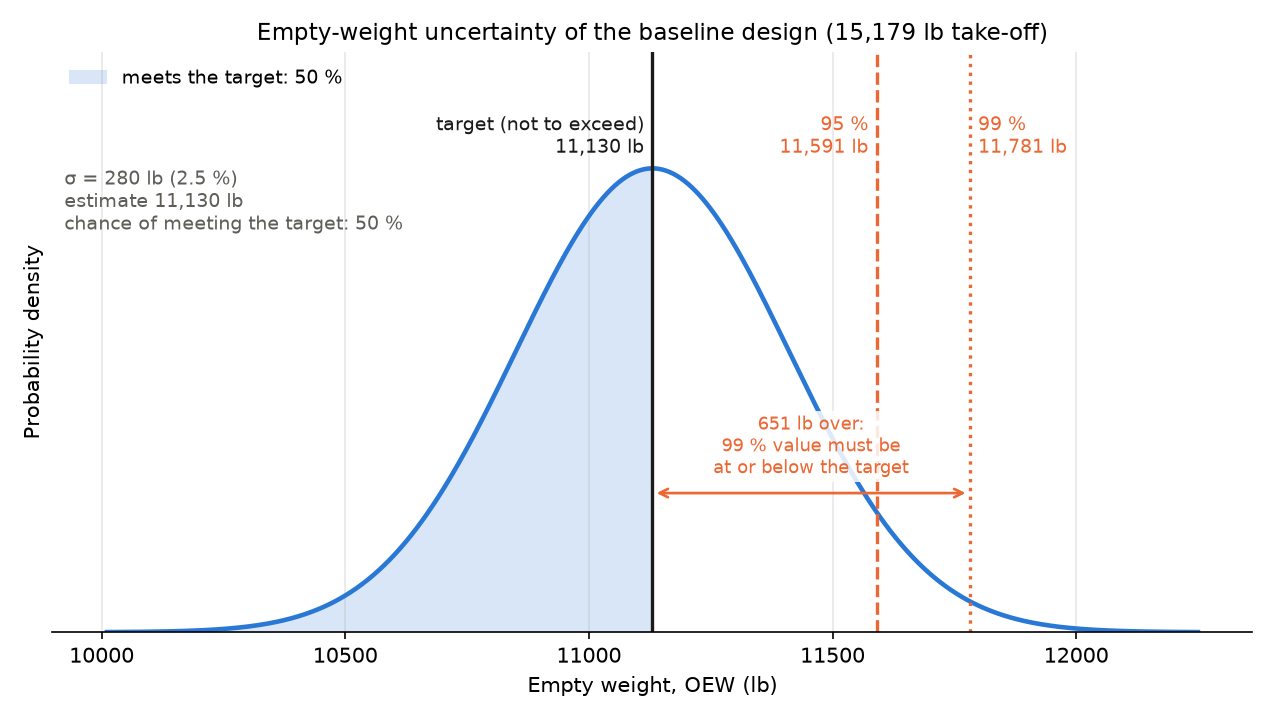
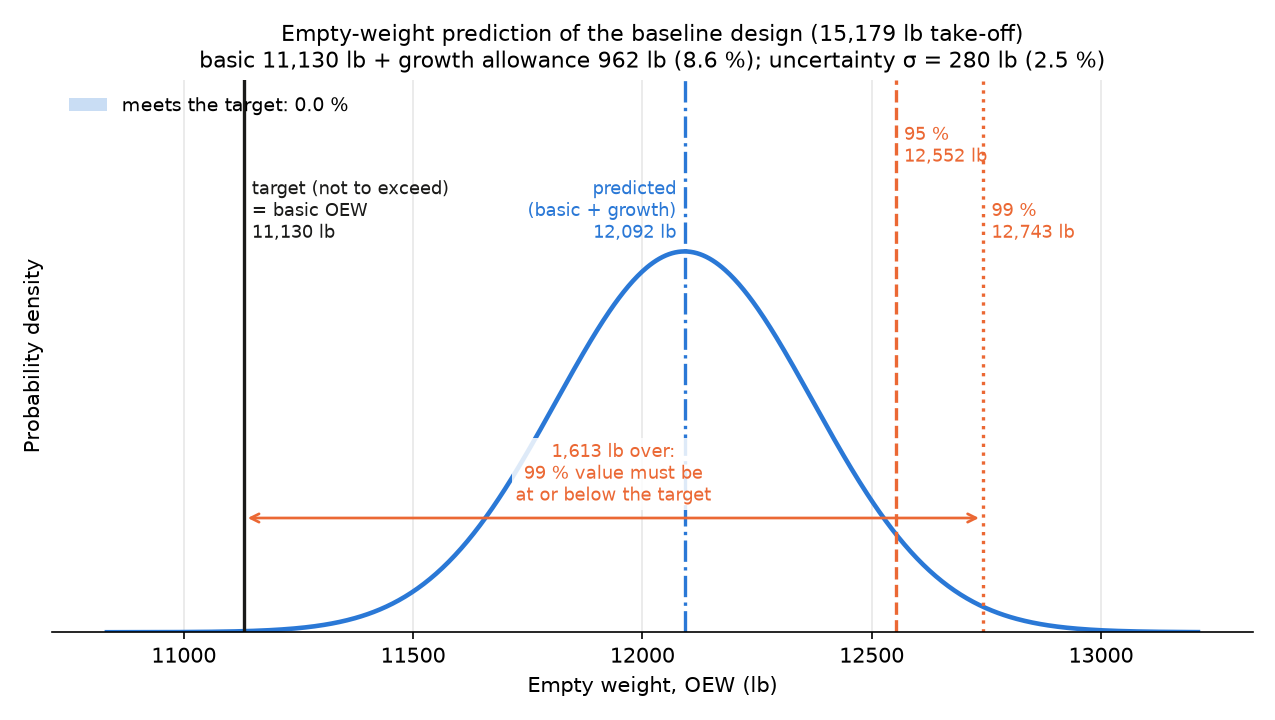
feat: OEW prediction separates growth allowance from uncertainty
Each empty-weight item now carries two quantities:
- a maturity-based growth allowance (vendor hardware 2 % through estimated 15 %, structured after AIAA S-120A /
  SAWE practice), which shifts the predicted OEW;
- a 1-sigma uncertainty from its estimating method, which sets the spread.

With the target at today's basic OEW (11,130 lb), the prediction is 12,092 lb (+962 lb growth, 8.6 %),
sigma 280 lb, and the 99 % value is 1,613 lb over the target. The README table shows the basic weight, maturity,
growth allowance, uncertainty and predicted weight per item.

Claude-Session: https://claude.ai/code/session_01EbPY63ZKEJVQUT6jGN3Y5d

diff --git a/examples/halo_oew_uncertainty.py b/examples/halo_oew_uncertainty.py
@@ -1,19 +1,22 @@
-"""Empty-weight (OEW) uncertainty of the sized Halo baseline: item-by-item mass build-up and its distribution.
+"""Empty-weight (OEW) prediction of the sized Halo baseline: growth allowance and uncertainty, item by item.
 
-Each item of the empty-weight build-up gets a one-sigma uncertainty that reflects how its mass is estimated:
+Each item of the empty-weight build-up carries two separate quantities:
 
-- catalogue hardware (fixed turboshafts, whole machine units) is tight;
-- calibrated handbook groups (AFDD, Raymer with XV-15 factors) carry +/-15 % at 95 % confidence, the spread the
-  design-space sensitivity study uses (sigma 7.5 %), widened where the calibration is weakest;
-- lightly modelled items (heat exchanger, protection and bus tie) are wide.
+- **Growth allowance** (`maturity_levels`): the growth expected as the design matures, set by how mature the item's
+  weight is, following the structure of AIAA S-120A / SAWE mass-growth practice (the percentages are program
+  defaults, to be set by the weights team). It shifts the prediction: predicted OEW = basic OEW + sum of the
+  allowances.
+- **Uncertainty**: a one-sigma spread that reflects how the item's mass is estimated. Catalogue hardware is tight;
+  calibrated handbook groups (AFDD, Raymer with XV-15 factors) carry about +/-15 % at 95 % confidence, widened where
+  the calibration is weakest; lightly modelled items are wide.
 
-Items are taken as independent and normally distributed, so OEW is normal with mean = the sized OEW and
-sigma = sqrt(sum sigma_i^2). Correlated errors (for example every Raymer group biased the same way) would widen it.
-This is a bottom-up spread at fixed take-off weight: the aircraft is not re-sized, so the growth a heavier empty
-weight causes through fuel, battery and structure is not included.
+Items are independent and normally distributed, so OEW is normal with mean = the predicted OEW and
+sigma = sqrt(sum sigma_i^2). Correlated errors (every Raymer group biased the same way) would widen it. Weight is
+held at a fixed take-off weight: the aircraft is not re-sized, so the growth a heavier empty weight causes through
+fuel, battery and structure is not included.
 
-The OEW target is the sized baseline OEW; the 95 % and 99 % values are one-sided: the OEW not exceeded with that
-probability.
+The target is a not-to-exceed OEW, by default the basic OEW of the sized baseline. The 95 % and 99 % values are
+one-sided: the OEW not exceeded with that probability.
 
     python -m examples.halo_oew_uncertainty    # sizes the baseline; writes output/oew/oew_distribution.png
 """
@@ -27,37 +30,61 @@ import aerosandbox.tools.units as u
 blue, orange, grey, ink = "#2a78d6", "#eb6834", "#5e5d58", "#1a1a19"
 z_95, z_99 = 1.6449, 2.3263              # one-sided standard-normal quantiles
 
+# Design maturity -> growth allowance (fraction of the basic weight).
+maturity_levels = {
+    "Vendor hardware": 0.02,             # catalogue item, quoted weight
+    "Vendor data": 0.05,                 # catalogue units plus an integration estimate
+    "Calculated / layout": 0.08,         # from component data or a drawn layout
+    "Calibrated parametric": 0.10,       # handbook method calibrated on a reference aircraft
+    "Estimated": 0.15,                   # uncalibrated method or an assumed allowance
+}
+
 
 @dataclass(frozen=True)
 class OewItem:
     label: str
     group: str                           # "Powertrain" or "Airframe and systems"
-    mass_kg: float
-    sigma_fraction: float                # one-sigma uncertainty as a fraction of the item mass
+    mass_kg: float                       # basic weight from the sizing
+    maturity: str                        # key of `maturity_levels`
+    sigma_fraction: float                # one-sigma uncertainty as a fraction of the basic weight
     basis: str
 
+    @property
+    def growth_fraction(self):
+        return maturity_levels[self.maturity]
 
-# (label, group, keys in the sizing result, sigma, basis). Keys starting "pt:" are powertrain instances.
+
+# (label, group, keys in the sizing result, maturity, sigma, basis). Keys starting "pt:" are powertrain instances.
 item_definitions = (
-    ("Wing", "Airframe and systems", ("wing",), 0.10,
+    ("Wing", "Airframe and systems", ("wing",), "Calibrated parametric", 0.10,
      "AFDD tiltrotor wing x 1.33 (XV-15); strength at ultimate not demonstrated"),
-    ("Tails", "Airframe and systems", ("horizontal_tail", "vertical_tail"), 0.10, "Raymer x XV-15 factor"),
-    ("Fuselage", "Airframe and systems", ("fuselage",), 0.10, "Raymer x 1.70, anchored to the drawn layout"),
-    ("Nacelles", "Airframe and systems", ("nacelles",), 0.10, "AFDD-class estimate"),
-    ("Landing gear", "Airframe and systems", ("landing_gear",), 0.075, "Raymer"),
-    ("Systems", "Airframe and systems", ("systems",), 0.15, "Raymer; flight controls carry an XV-15 factor of about 4"),
-    ("Fixed equipment", "Airframe and systems", ("equipment",), 0.10, "Assumed allowance"),
-    ("Rotors", "Powertrain", ("pt:propulsor",), 0.075, "AFDD blades and hubs, XV-15 calibrated"),
-    ("Rotor gearboxes", "Powertrain", ("pt:gearbox",), 0.10, "AFDD drive system"),
-    ("Generator gearboxes", "Powertrain", ("pt:generator_gearbox",), 0.10, "AFDD drive system"),
-    ("Motors (with inverters)", "Powertrain", ("pt:motor",), 0.05, "Whole catalogue units plus inverter allowance"),
-    ("Generators (with inverters)", "Powertrain", ("pt:generator",), 0.05,
+    ("Tails", "Airframe and systems", ("horizontal_tail", "vertical_tail"), "Calibrated parametric", 0.10,
+     "Raymer x XV-15 factor"),
+    ("Fuselage", "Airframe and systems", ("fuselage",), "Calculated / layout", 0.10,
+     "Raymer x 1.70, anchored to the drawn layout"),
+    ("Nacelles", "Airframe and systems", ("nacelles",), "Calibrated parametric", 0.10, "AFDD-class estimate"),
+    ("Landing gear", "Airframe and systems", ("landing_gear",), "Calibrated parametric", 0.075,
+     "Raymer x XV-15 factor"),
+    ("Systems", "Airframe and systems", ("systems",), "Calibrated parametric", 0.15,
+     "Raymer; flight controls carry an XV-15 factor of about 4"),
+    ("Fixed equipment", "Airframe and systems", ("equipment",), "Estimated", 0.10, "Assumed allowance"),
+    ("Rotors", "Powertrain", ("pt:propulsor",), "Calibrated parametric", 0.075,
+     "AFDD blades and hubs, XV-15 calibrated"),
+    ("Rotor gearboxes", "Powertrain", ("pt:gearbox",), "Calibrated parametric", 0.10, "AFDD drive system"),
+    ("Generator gearboxes", "Powertrain", ("pt:generator_gearbox",), "Calibrated parametric", 0.10,
+     "AFDD drive system"),
+    ("Motors (with inverters)", "Powertrain", ("pt:motor",), "Vendor data", 0.05,
      "Whole catalogue units plus inverter allowance"),
-    ("Turboshafts", "Powertrain", ("pt:turboshaft",), 0.025, "Fixed off-the-shelf engines plus installation"),
-    ("Battery", "Powertrain", ("pt:battery",), 0.075, "50G cell data; 70 % cell-to-pack mass assumed"),
-    ("Heat exchanger", "Powertrain", ("pt:heat_exchanger",), 0.15, "Thermal model, mass per watt assumed"),
+    ("Generators (with inverters)", "Powertrain", ("pt:generator",), "Vendor data", 0.05,
+     "Whole catalogue units plus inverter allowance"),
+    ("Turboshafts", "Powertrain", ("pt:turboshaft",), "Vendor hardware", 0.025,
+     "Fixed off-the-shelf engines plus installation"),
+    ("Battery", "Powertrain", ("pt:battery",), "Calculated / layout", 0.075,
+     "50G cell data; 70 % cell-to-pack mass assumed"),
+    ("Heat exchanger", "Powertrain", ("pt:heat_exchanger",), "Estimated", 0.15,
+     "Thermal model, mass per watt assumed"),
     ("Protection and bus tie", "Powertrain", ("pt:protection_string", "pt:protection_bus_tie", "pt:cable_bus_tie"),
-     0.20, "Simple ratings-based estimate"),
+     "Estimated", 0.20, "Simple ratings-based estimate"),
 )
 
 
@@ -65,9 +92,9 @@ def oew_items(sizing):
     components = dict(sizing.component_masses_kg)
     powertrain = dict(sizing.powertrain_masses_kg)
     items = []
-    for label, group, keys, sigma, basis in item_definitions:
+    for label, group, keys, maturity, sigma, basis in item_definitions:
         mass_kg = sum(powertrain.get(k[3:], 0.0) if k.startswith("pt:") else components.get(k, 0.0) for k in keys)
-        items.append(OewItem(label, group, float(mass_kg), sigma, basis))
+        items.append(OewItem(label, group, float(mass_kg), maturity, sigma, basis))
     total_kg = sum(item.mass_kg for item in items)
     if abs(total_kg - sizing.mass_empty_kg) > 1.0:
         raise ValueError(f"items sum to {total_kg:.1f} kg, OEW is {sizing.mass_empty_kg:.1f} kg")
@@ -76,8 +103,14 @@ def oew_items(sizing):
 
 @dataclass(frozen=True)
 class OewDistribution:
-    mean_lb: float
-    sigma_lb: float
+    basic_lb: float                      # sum of the basic item weights (the sized OEW)
+    growth_lb: float                     # sum of the growth allowances
+    sigma_lb: float                      # root sum of squares of the item uncertainties
+
+    @property
+    def mean_lb(self):
+        """Predicted OEW: basic weight plus growth allowance."""
+        return self.basic_lb + self.growth_lb
 
     @property
     def value_95_lb(self):
@@ -89,21 +122,28 @@ class OewDistribution:
 
 
 def oew_distribution(items):
-    mean_lb = sum(item.mass_kg for item in items) / u.lbm
+    basic_lb = sum(item.mass_kg for item in items) / u.lbm
+    growth_lb = sum(item.growth_fraction * item.mass_kg for item in items) / u.lbm
     sigma_lb = float(numpy.sqrt(sum((item.sigma_fraction * item.mass_kg / u.lbm) ** 2 for item in items)))
-    return OewDistribution(mean_lb, sigma_lb)
+    return OewDistribution(basic_lb, growth_lb, sigma_lb)
 
 
 def markdown_table(items, distribution):
-    """Item build-up with each item's uncertainty and growth allowance (one sigma), and the OEW total."""
-    rows = ["| Item | Weight (lb) | Uncertainty and growth allowance, 1σ (%) | Uncertainty and growth allowance, 1σ (lb) "
-            "| Basis |", "|---|---|---|---|---|"]
+    """Item build-up: basic weight, maturity and growth allowance, uncertainty (one sigma), predicted weight."""
+    d = distribution
+    rows = ["| Item | Basic weight (lb) | Maturity | Growth allowance (%) | Growth allowance (lb) "
+            "| Uncertainty, 1σ (%) | Uncertainty, 1σ (lb) | Predicted weight (lb) | Basis |",
+            "|---|---|---|---|---|---|---|---|---|"]
     for group in ("Powertrain", "Airframe and systems"):
         for item in sorted((i for i in items if i.group == group), key=lambda i: -i.mass_kg):
-            rows.append(f"| {item.label} | {item.mass_kg / u.lbm:,.0f} | {100 * item.sigma_fraction:.1f} | "
-                        f"{item.sigma_fraction * item.mass_kg / u.lbm:,.0f} | {item.basis} |")
-    rows.append(f"| **OEW** | **{distribution.mean_lb:,.0f}** | **{100 * distribution.sigma_lb / distribution.mean_lb:.1f}**"
-                f" | **{distribution.sigma_lb:,.0f}** | Root sum of squares, items independent |")
+            basic_lb = item.mass_kg / u.lbm
+            rows.append(f"| {item.label} | {basic_lb:,.0f} | {item.maturity} | {100 * item.growth_fraction:.0f} | "
+                        f"{item.growth_fraction * basic_lb:,.0f} | {100 * item.sigma_fraction:.1f} | "
+                        f"{item.sigma_fraction * basic_lb:,.0f} | {(1 + item.growth_fraction) * basic_lb:,.0f} | "
+                        f"{item.basis} |")
+    rows.append(f"| **OEW** | **{d.basic_lb:,.0f}** | | **{100 * d.growth_lb / d.basic_lb:.1f}** | **{d.growth_lb:,.0f}** "
+                f"| **{100 * d.sigma_lb / d.basic_lb:.1f}** | **{d.sigma_lb:,.0f}** | **{d.mean_lb:,.0f}** "
+                f"| Growth summed; uncertainty root sum of squares, items independent |")
     return "\n".join(rows)
 
 
@@ -114,18 +154,20 @@ def probability_at_most(distribution, weight_lb):
 
 
 def plot_distribution(distribution, path, title, target_lb=None):
-    """OEW density with the target and the 95 % and 99 % values; shades the chance of meeting the target."""
+    """Predicted OEW density with the target and the 95 % and 99 % values; shades the chance of meeting the target."""
     import matplotlib
     matplotlib.use("Agg")
     import matplotlib.pyplot as plt
     d = distribution
-    target_lb = d.mean_lb if target_lb is None else target_lb
-    weight_lb = numpy.linspace(d.mean_lb - 4 * d.sigma_lb, d.mean_lb + 4 * d.sigma_lb, 600)
+    target_lb = d.basic_lb if target_lb is None else target_lb
+    low_lb, high_lb = min(target_lb, d.mean_lb - 4 * d.sigma_lb), d.mean_lb + 4 * d.sigma_lb
+    weight_lb = numpy.linspace(low_lb - 0.5 * d.sigma_lb, high_lb, 700)
     pdf = numpy.exp(-0.5 * ((weight_lb - d.mean_lb) / d.sigma_lb) ** 2) / (d.sigma_lb * numpy.sqrt(2 * numpy.pi))
+    chance = probability_at_most(d, target_lb)
     fig, ax = plt.subplots(figsize=(8.5, 4.8))
     ax.plot(weight_lb, pdf, color=blue, lw=2.2)
-    ax.fill_between(weight_lb, pdf, where=weight_lb <= target_lb, color=blue, alpha=0.18, lw=0,
-                    label=f"meets the target: {100 * probability_at_most(d, target_lb):.0f} %")
+    ax.fill_between(weight_lb, pdf, where=weight_lb <= target_lb, color=blue, alpha=0.25, lw=0,
+                    label=f"meets the target: {100 * chance:.1f} %")
     peak = pdf.max()
     # The design rule: the 99 % value must sit at or below the not-to-exceed target.
     if d.value_99_lb > target_lb:
@@ -135,31 +177,31 @@ def plot_distribution(distribution, path, title, target_lb=None):
                 f"{d.value_99_lb - target_lb:,.0f} lb over:\n99 % value must be\nat or below the target",
                 ha="center", va="bottom", fontsize=8.5, color=orange,
                 bbox=dict(facecolor="white", edgecolor="none", alpha=0.85, pad=1.5))
-    for value, label, color, style, side in ((target_lb, "target (not to exceed)", ink, "-", -1),
-                                             (d.value_95_lb, "95 %", orange, "--", -1),
-                                             (d.value_99_lb, "99 %", orange, ":", 1)):
+    for value, label, color, style, side, height in (
+            (target_lb, "target (not to exceed)\n= basic OEW", ink, "-", 1, 1.02),
+            (d.mean_lb, "predicted\n(basic + growth)", blue, "-.", -1, 1.02),
+            (d.value_95_lb, "95 %", orange, "--", 1, 1.22),
+            (d.value_99_lb, "99 %", orange, ":", 1, 1.02)):
         ax.axvline(value, color=color, ls=style, lw=1.6)
-        ax.annotate(f"{label}\n{value:,.0f} lb", (value, peak * 1.02), xytext=(4 * side, 0),
-                    textcoords="offset points", fontsize=9, color=color, va="bottom",
+        ax.annotate(f"{label}\n{value:,.0f} lb", (value, peak * height), xytext=(4 * side, 0),
+                    textcoords="offset points", fontsize=8.5, color=color, va="bottom",
                     ha="left" if side > 0 else "right")
     ax.set_xlabel("Empty weight, OEW (lb)")
     ax.set_ylabel("Probability density")
-    ax.set_title(title, fontsize=11)
-    ax.set_ylim(0, peak * 1.25)
+    ax.set_title(f"{title}\nbasic {d.basic_lb:,.0f} lb + growth allowance {d.growth_lb:,.0f} lb "
+                 f"({100 * d.growth_lb / d.basic_lb:.1f} %); uncertainty σ = {d.sigma_lb:,.0f} lb "
+                 f"({100 * d.sigma_lb / d.basic_lb:.1f} %)", fontsize=10.5)
+    ax.set_ylim(0, peak * 1.45)
     ax.set_yticks([])
     ax.spines[["top", "right", "left"]].set_visible(False)
     ax.grid(axis="x", alpha=0.3)
     ax.legend(loc="upper left", frameon=False, fontsize=9)
-    ax.text(0.01, 0.80, f"σ = {d.sigma_lb:,.0f} lb ({100 * d.sigma_lb / d.mean_lb:.1f} %)\n"
-                        f"estimate {d.mean_lb:,.0f} lb\n"
-                        f"chance of meeting the target: {100 * probability_at_most(d, target_lb):.0f} %",
-            transform=ax.transAxes, ha="left", va="top", fontsize=9, color=grey)
     fig.tight_layout()
     fig.savefig(path, dpi=150)
     plt.close(fig)
 
 
-def run(sizing=None, directory="output/oew"):
+def run(sizing=None, directory="output/oew", target_lb=None):
     if sizing is None:
         from examples.halo_sizing import solve_halo_sizing
         sizing = solve_halo_sizing()
@@ -167,13 +209,17 @@ def run(sizing=None, directory="output/oew"):
     distribution = oew_distribution(items)
     os.makedirs(directory, exist_ok=True)
     plot_distribution(distribution, os.path.join(directory, "oew_distribution.png"),
-                      f"Empty-weight uncertainty of the baseline design ({sizing.mass_takeoff_kg / u.lbm:,.0f} lb take-off)")
+                      f"Empty-weight prediction of the baseline design ({sizing.mass_takeoff_kg / u.lbm:,.0f} lb take-off)",
+                      target_lb)
     table = markdown_table(items, distribution)
     with open(os.path.join(directory, "oew_items.md"), "w", encoding="utf-8") as file:
         file.write(table + "\n")
     print(table)
-    print(f"\nOEW {distribution.mean_lb:,.0f} lb, sigma {distribution.sigma_lb:,.0f} lb; 95 % {distribution.value_95_lb:,.0f} lb, "
-          f"99 % {distribution.value_99_lb:,.0f} lb")
+    d = distribution
+    target = d.basic_lb if target_lb is None else target_lb
+    print(f"\nbasic {d.basic_lb:,.0f} lb, growth {d.growth_lb:,.0f} lb, predicted {d.mean_lb:,.0f} lb, "
+          f"sigma {d.sigma_lb:,.0f} lb; 95 % {d.value_95_lb:,.0f} lb, 99 % {d.value_99_lb:,.0f} lb; "
+          f"P(OEW <= {target:,.0f} lb) = {100 * probability_at_most(d, target):.1f} %")
     return items, distribution
 
 

diff --git a/README.md b/README.md
@@ -161,13 +161,14 @@ package** that kicks off the specialist team. Approach and effort: [docs/NEXT_ST
 
 **Limits**
 - Performance is computed at the design mission only; there is no payload-range diagram or endurance yet.
-- The baseline carries no weight margin: it is sized to the estimate.
+- The baseline carries no weight margin: it is sized to the basic estimate, without growth allowance.
 
 **Work package: weights and performance**
 - **Weights:**
   - Run weight control from the item table below.
   - Allocate a not-to-exceed weight to each item.
-  - Carry each item's margin inside the sizing, so the aircraft is sized to its 99 % value, not to the estimate.
+  - Carry each item's growth allowance and uncertainty inside the sizing, so the aircraft is sized to its 99 %
+    value, not to the basic estimate.
 - **Performance:**
   - Secure the installed turbine power with the engine supplier, and set the maximum take-off weight from what it
     delivers in the critical hover.
@@ -177,38 +178,55 @@ package** that kicks off the specialist team. Approach and effort: [docs/NEXT_ST
 
 ![Empty mass breakdown](docs/figures/oew_breakdown.png)
 
-**Empty-weight uncertainty: the chance of meeting the weight target.** Each item of the empty-weight build-up
-carries an uncertainty and growth allowance (one sigma), set by how its mass is estimated:
-- catalogue engines and machine units are tight;
-- calibrated handbook groups carry about ±15 % at 95 % confidence, widened where the calibration is weakest;
-- lightly modelled items are wide.
+**Empty-weight prediction: growth allowance, uncertainty and the chance of meeting the target.** Each item of
+the empty-weight build-up carries two separate quantities:
+- **Growth allowance:** the growth expected as the design matures, set by how mature the item's weight is. The
+  structure follows AIAA S-120A and SAWE mass-growth practice; the percentages are program defaults for the weights
+  team to set:
 
-The items are combined as independent normal errors into an OEW distribution. The target is a not-to-exceed
-weight: the design should carry enough margin that its 99 % value comes in at or below it. Today the estimate is
-the target itself, so the chance of meeting it is 50 %, and the 99 % value is 651 lb over. The spread is at a fixed
-take-off weight: weight growth through re-sizing, and correlated errors between items, would widen it.
+  | Maturity | Allowance |
+  |---|---|
+  | Vendor hardware | 2 % |
+  | Vendor data | 5 % |
+  | Calculated or layout | 8 % |
+  | Calibrated parametric | 10 % |
+  | Estimated | 15 % |
+
+  The allowances add up: predicted OEW = basic OEW + Σ allowances.
+- **Uncertainty (1σ):** the spread from how the item's mass is estimated. Catalogue hardware is tight; calibrated
+  handbook groups carry about ±15 % at 95 %, widened where the calibration is weakest; lightly modelled items are
+  wide. The items are independent, so the OEW spread is the root sum of squares.
+
+The target is a not-to-exceed weight, and the design should carry enough margin that its 99 % value comes in at or
+below it. With the target at today's basic OEW (11,130 lb):
+- the growth allowance moves the prediction to 12,092 lb;
+- the chance of meeting the target is effectively zero;
+- the 99 % value is 1,613 lb over.
+
+This is the size of the margin the weights team has to manage. The spread is at a fixed take-off weight:
+weight growth through re-sizing, and correlated errors between items, would widen it.
 
 ![Empty-weight uncertainty](docs/figures/oew_distribution.png)
 
-| Item | Weight (lb) | Uncertainty and growth allowance, 1σ (%) | Uncertainty and growth allowance, 1σ (lb) | Basis |
-|---|---|---|---|---|
-| Rotors | 1,488 | 7.5 | 112 | AFDD blades and hubs, XV-15 calibrated |
-| Battery | 1,047 | 7.5 | 79 | 50G cell data; 70 % cell-to-pack mass assumed |
-| Motors (with inverters) | 938 | 5.0 | 47 | Whole catalogue units plus inverter allowance |
-| Turboshafts | 930 | 2.5 | 23 | Fixed off-the-shelf engines plus installation |
-| Rotor gearboxes | 645 | 10.0 | 64 | AFDD drive system |
-| Generators (with inverters) | 621 | 5.0 | 31 | Whole catalogue units plus inverter allowance |
-| Generator gearboxes | 318 | 10.0 | 32 | AFDD drive system |
-| Heat exchanger | 280 | 15.0 | 42 | Thermal model, mass per watt assumed |
-| Protection and bus tie | 63 | 20.0 | 13 | Simple ratings-based estimate |
-| Fuselage | 1,235 | 10.0 | 123 | Raymer x 1.70, anchored to the drawn layout |
-| Wing | 899 | 10.0 | 90 | AFDD tiltrotor wing x 1.33 (XV-15); strength at ultimate not demonstrated |
-| Systems | 898 | 15.0 | 135 | Raymer; flight controls carry an XV-15 factor of about 4 |
-| Fixed equipment | 587 | 10.0 | 59 | Assumed allowance |
-| Landing gear | 570 | 7.5 | 43 | Raymer |
-| Nacelles | 430 | 10.0 | 43 | AFDD-class estimate |
-| Tails | 183 | 10.0 | 18 | Raymer x XV-15 factor |
-| **OEW** | **11,130** | **2.5** | **280** | Root sum of squares, items independent |
+| Item | Basic weight (lb) | Maturity | Growth allowance (%) | Growth allowance (lb) | Uncertainty, 1σ (%) | Uncertainty, 1σ (lb) | Predicted weight (lb) | Basis |
+|---|---|---|---|---|---|---|---|---|
+| Rotors | 1,488 | Calibrated parametric | 10 | 149 | 7.5 | 112 | 1,637 | AFDD blades and hubs, XV-15 calibrated |
+| Battery | 1,047 | Calculated / layout | 8 | 84 | 7.5 | 79 | 1,131 | 50G cell data; 70 % cell-to-pack mass assumed |
+| Motors (with inverters) | 938 | Vendor data | 5 | 47 | 5.0 | 47 | 985 | Whole catalogue units plus inverter allowance |
+| Turboshafts | 930 | Vendor hardware | 2 | 19 | 2.5 | 23 | 948 | Fixed off-the-shelf engines plus installation |
+| Rotor gearboxes | 645 | Calibrated parametric | 10 | 64 | 10.0 | 64 | 709 | AFDD drive system |
+| Generators (with inverters) | 621 | Vendor data | 5 | 31 | 5.0 | 31 | 652 | Whole catalogue units plus inverter allowance |
+| Generator gearboxes | 318 | Calibrated parametric | 10 | 32 | 10.0 | 32 | 350 | AFDD drive system |
+| Heat exchanger | 280 | Estimated | 15 | 42 | 15.0 | 42 | 322 | Thermal model, mass per watt assumed |
+| Protection and bus tie | 63 | Estimated | 15 | 9 | 20.0 | 13 | 72 | Simple ratings-based estimate |
+| Fuselage | 1,235 | Calculated / layout | 8 | 99 | 10.0 | 123 | 1,334 | Raymer x 1.70, anchored to the drawn layout |
+| Wing | 899 | Calibrated parametric | 10 | 90 | 10.0 | 90 | 989 | AFDD tiltrotor wing x 1.33 (XV-15); strength at ultimate not demonstrated |
+| Systems | 898 | Calibrated parametric | 10 | 90 | 15.0 | 135 | 988 | Raymer; flight controls carry an XV-15 factor of about 4 |
+| Fixed equipment | 587 | Estimated | 15 | 88 | 10.0 | 59 | 675 | Assumed allowance |
+| Landing gear | 570 | Calibrated parametric | 10 | 57 | 7.5 | 43 | 627 | Raymer x XV-15 factor |
+| Nacelles | 430 | Calibrated parametric | 10 | 43 | 10.0 | 43 | 472 | AFDD-class estimate |
+| Tails | 183 | Calibrated parametric | 10 | 18 | 10.0 | 18 | 201 | Raymer x XV-15 factor |
+| **OEW** | **11,130** | | **8.6** | **962** | **2.5** | **280** | **12,092** | Growth summed; uncertainty root sum of squares, items independent |
 
 **Mission profiles.** Airspeed, turbine shaft power against battery power, and altitude, for the design mission
 (first 15 min on the left, the whole mission on the right):
